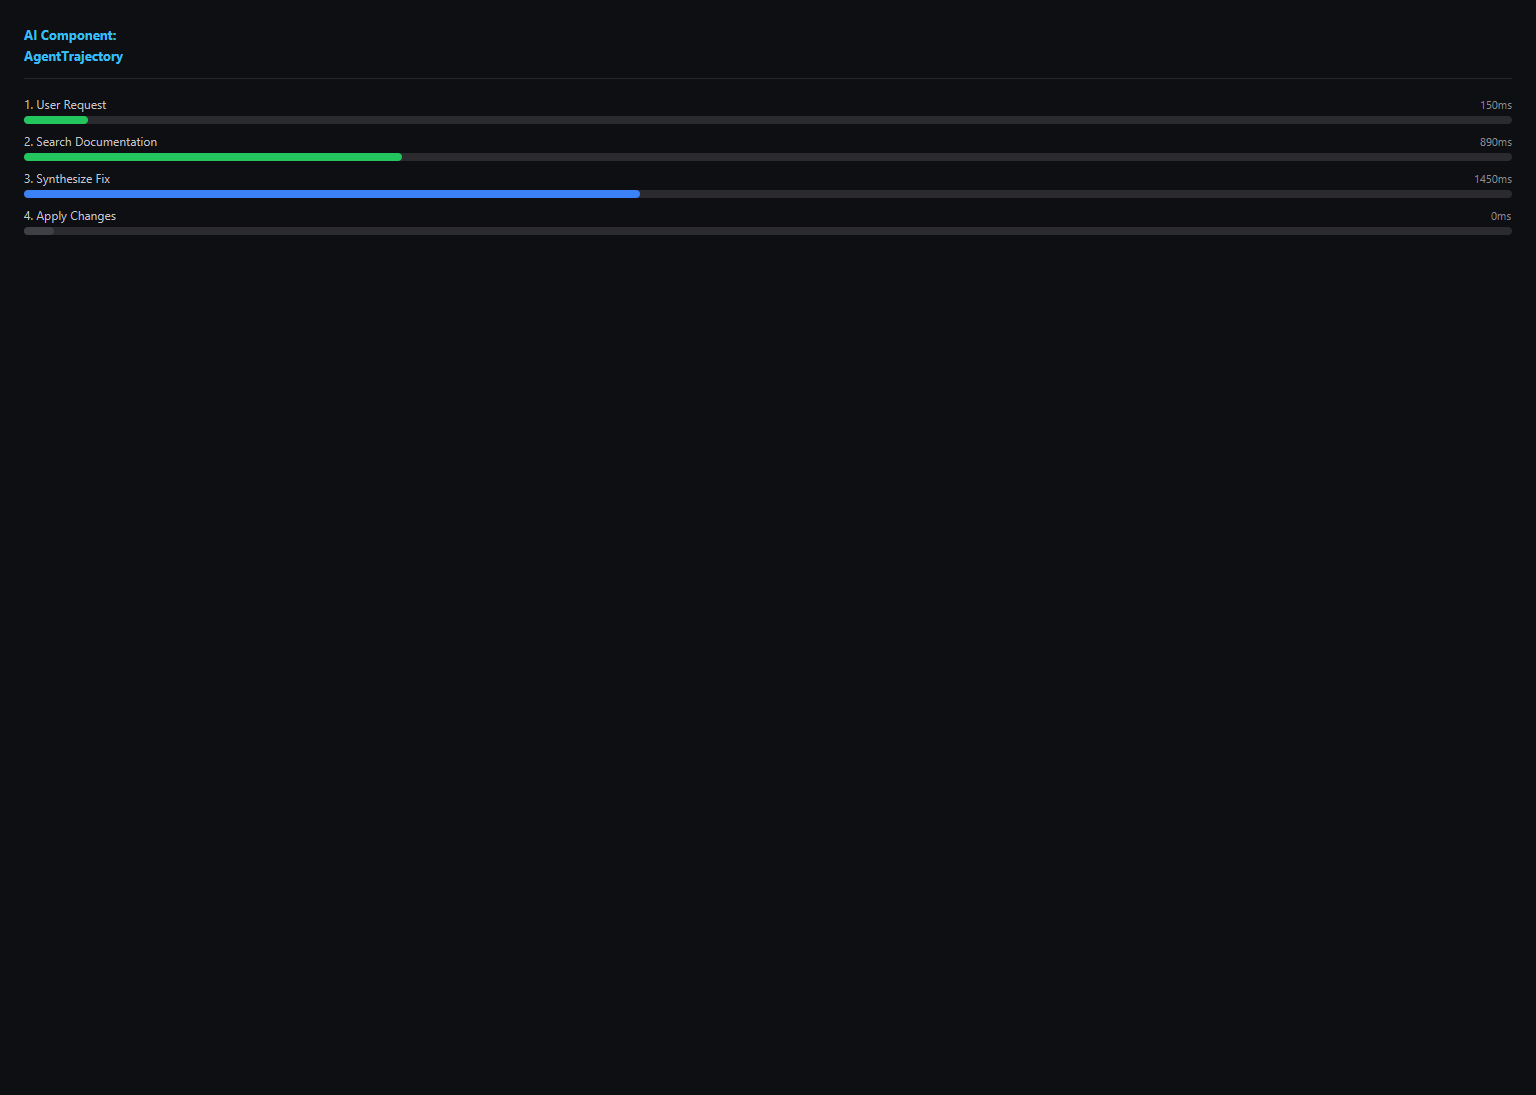
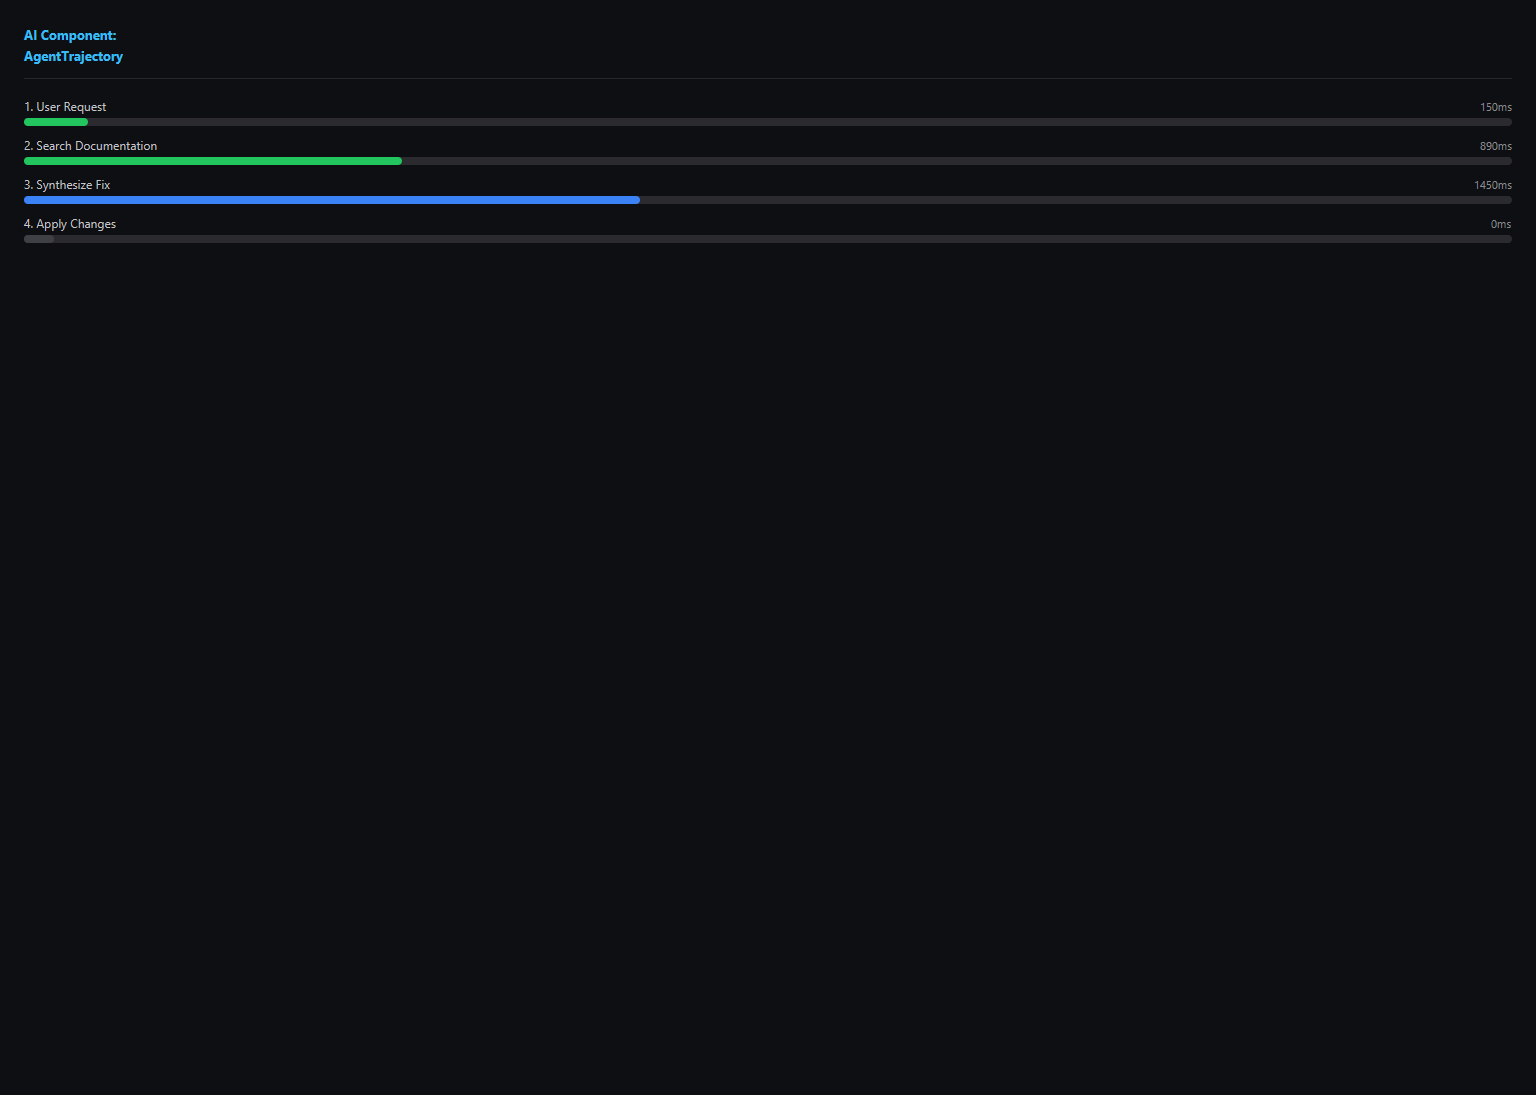
fix(ai): polish RunInspector card margins and token layout

Changed region(s): [[0.0, 0.0932, 1.0, 0.2484]]

diff --git a/packages/ui/src/ai/SandboxStepLog.tsx b/packages/ui/src/ai/SandboxStepLog.tsx
@@ -18,10 +18,43 @@ export interface SandboxStepLogProps {
 
 const KIND_COLOR: Record<SandboxLineKind, string> = { prompt: '#22C55E', command: t.primary, stdout: t.secondary, error: '#ED4245', done: '#22C55E' }
 
-export function SandboxStepLog({ lines, height = 240 }: SandboxStepLogProps) {
-  const innerHeight = typeof height === 'number' ? height - 42 : height
+function renderLine(l: SandboxLine) {
+  const kind = l.kind ?? 'stdout'
+  const prefix = kind === 'prompt' ? '$ ' : kind === 'command' ? '> ' : ''
+  const fullText = prefix + l.text
   return (
-    <div style={{ backgroundColor: '#0D0D10', borderRadius: 8, borderWidth: 1, borderColor: '#26262B', overflow: 'hidden', height, display: 'flex', flexDirection: 'column' }}>
+    <div
+      key={l.id}
+      style={{
+        minHeight: 22,
+        paddingTop: 3,
+        paddingBottom: 3,
+        display: 'flex',
+        alignItems: 'center',
+      }}
+    >
+      <text style={{ fontSize: 11.5, color: KIND_COLOR[kind], fontFamily: FONT_MONO, lineHeight: 1.4, whiteSpace: 'nowrap' }}>
+        {fullText}
+      </text>
+    </div>
+  )
+}
+
+export function SandboxStepLog({ lines, height = 240 }: SandboxStepLogProps) {
+  const isAuto = height === 'auto'
+  const bodyPad = { paddingLeft: 12, paddingRight: 12, paddingTop: 12, paddingBottom: 12 }
+
+  return (
+    <div
+      style={{
+        backgroundColor: '#0D0D10',
+        borderRadius: 8,
+        borderWidth: 1,
+        borderColor: '#26262B',
+        overflow: 'hidden',
+        ...(isAuto ? {} : { height, display: 'flex', flexDirection: 'column' }),
+      }}
+    >
       <div style={{ display: 'flex', flexDirection: 'row', alignItems: 'center', justifyContent: 'space-between', paddingLeft: 12, paddingRight: 12, height: 32, backgroundColor: '#141418', borderBottomWidth: 1, borderColor: '#26262B' }}>
         <div style={{ display: 'flex', flexDirection: 'row', alignItems: 'center', gap: 6 }}>
           <div style={{ width: 9, height: 9, borderRadius: 5, backgroundColor: '#EF4444' }} />
@@ -31,34 +64,18 @@ export function SandboxStepLog({ lines, height = 240 }: SandboxStepLogProps) {
         </div>
         <text style={{ fontSize: 11, color: t.muted, fontFamily: FONT_MONO, lineHeight: 1, whiteSpace: 'nowrap' }}>{`${lines.length} lines`}</text>
       </div>
-      <div style={{ flexGrow: 1, paddingLeft: 12, paddingRight: 12, paddingTop: 10, paddingBottom: 10, overflowY: 'scroll' }}>
-        <VirtualList<SandboxLine>
-          items={lines}
-          estimatedItemHeight={24}
-          height="100%"
-          renderItem={(l) => {
-            const kind = l.kind ?? 'stdout'
-            const prefix = kind === 'prompt' ? '$ ' : kind === 'command' ? '> ' : ''
-            const fullText = prefix + l.text
-            return (
-              <div
-                key={l.id}
-                style={{
-                  minHeight: 22,
-                  paddingTop: 3,
-                  paddingBottom: 3,
-                  display: 'flex',
-                  alignItems: 'center',
-                }}
-              >
-                <text style={{ fontSize: 11.5, color: KIND_COLOR[kind], fontFamily: FONT_MONO, lineHeight: 1.4, whiteSpace: 'nowrap' }}>
-                  {fullText}
-                </text>
-              </div>
-            )
-          }}
-        />
-      </div>
+      {isAuto ? (
+        <div style={bodyPad}>{lines.map(renderLine)}</div>
+      ) : (
+        <div style={{ flexGrow: 1, ...bodyPad, overflowY: 'scroll' }}>
+          <VirtualList<SandboxLine>
+            items={lines}
+            estimatedItemHeight={24}
+            height={typeof height === 'number' ? height - 44 : '100%'}
+            renderItem={renderLine}
+          />
+        </div>
+      )}
     </div>
   )
 }

diff --git a/packages/ui/src/ai/RunInspector.tsx b/packages/ui/src/ai/RunInspector.tsx
@@ -11,11 +11,13 @@ export interface RunInspectorProps {
   limit?: number
 }
 
+const CARD_PAD = { paddingTop: 16, paddingBottom: 16, paddingLeft: 16, paddingRight: 16 }
+
 export function RunInspector({ steps, lines, used = 0, limit = 200000 }: RunInspectorProps) {
   const pct = Math.round((used / Math.max(limit, 1)) * 100)
   return (
     <div style={{ display: 'flex', flexDirection: 'column', gap: 14, width: '100%' }}>
-      <div style={{ display: 'flex', flexDirection: 'row', alignItems: 'center', justifyContent: 'space-between', padding: 16, borderRadius: 10, borderWidth: 1, borderColor: border.subtle, backgroundColor: surface.card }}>
+      <div style={{ display: 'flex', flexDirection: 'row', alignItems: 'center', justifyContent: 'space-between', ...CARD_PAD, borderRadius: 10, borderWidth: 1, borderColor: border.subtle, backgroundColor: surface.card }}>
         <div style={{ display: 'flex', flexDirection: 'row', alignItems: 'center', gap: 8 }}>
           <text style={{ fontSize: 13, fontWeight: 600, color: t.primary, fontFamily: FONT, lineHeight: 1 }}>Run Inspector</text>
           <div style={{ display: 'flex', flexDirection: 'row', alignItems: 'center', justifyContent: 'center', backgroundColor: '#22C55E1A', borderWidth: 1, borderColor: '#22C55E40', borderRadius: 10, paddingLeft: 8, paddingRight: 8, height: 20 }}>
@@ -27,16 +29,16 @@ export function RunInspector({ steps, lines, used = 0, limit = 200000 }: RunInsp
         </text>
       </div>
 
-      <div style={{ display: 'flex', flexDirection: 'row', gap: 12, alignItems: 'stretch' }}>
-        <div style={{ width: 240, flexShrink: 0, padding: 16, borderRadius: 10, borderWidth: 1, borderColor: border.subtle, backgroundColor: surface.card, display: 'flex', alignItems: 'center', justifyContent: 'flex-start' }}>
+      <div style={{ display: 'flex', flexDirection: 'row', gap: 12, alignItems: 'flex-start' }}>
+        <div style={{ width: 240, flexShrink: 0, ...CARD_PAD, borderRadius: 10, borderWidth: 1, borderColor: border.subtle, backgroundColor: surface.card }}>
           <ContextRing used={used} limit={limit} size={76} />
         </div>
-        <div style={{ flexGrow: 1, padding: 16, borderRadius: 10, borderWidth: 1, borderColor: border.subtle, backgroundColor: surface.card }}>
+        <div style={{ flexGrow: 1, ...CARD_PAD, borderRadius: 10, borderWidth: 1, borderColor: border.subtle, backgroundColor: surface.card }}>
           <AgentTrajectory steps={steps} />
         </div>
       </div>
 
-      <SandboxStepLog lines={lines} height={160} />
+      <SandboxStepLog lines={lines} height="auto" />
     </div>
   )
 }

diff --git a/packages/ui/src/ai/AgentTrajectory.tsx b/packages/ui/src/ai/AgentTrajectory.tsx
@@ -27,7 +27,7 @@ export function AgentTrajectory({ steps = [], totalMs }: AgentTrajectoryProps) {
   const safeSteps = steps ?? []
   const maxMs = totalMs ?? Math.max(...safeSteps.map((s) => s.ms ?? 0), 1)
   return (
-    <div style={{ display: 'flex', flexDirection: 'column', gap: 8 }}>
+    <div style={{ display: 'flex', flexDirection: 'column', gap: 10, paddingTop: 2, paddingBottom: 2 }}>
       {safeSteps.map((s) => (
         <div key={s.id} style={{ display: 'flex', flexDirection: 'column', gap: 2 }}>
           <div style={{ display: 'flex', flexDirection: 'row', alignItems: 'center', justifyContent: 'space-between' }}>
